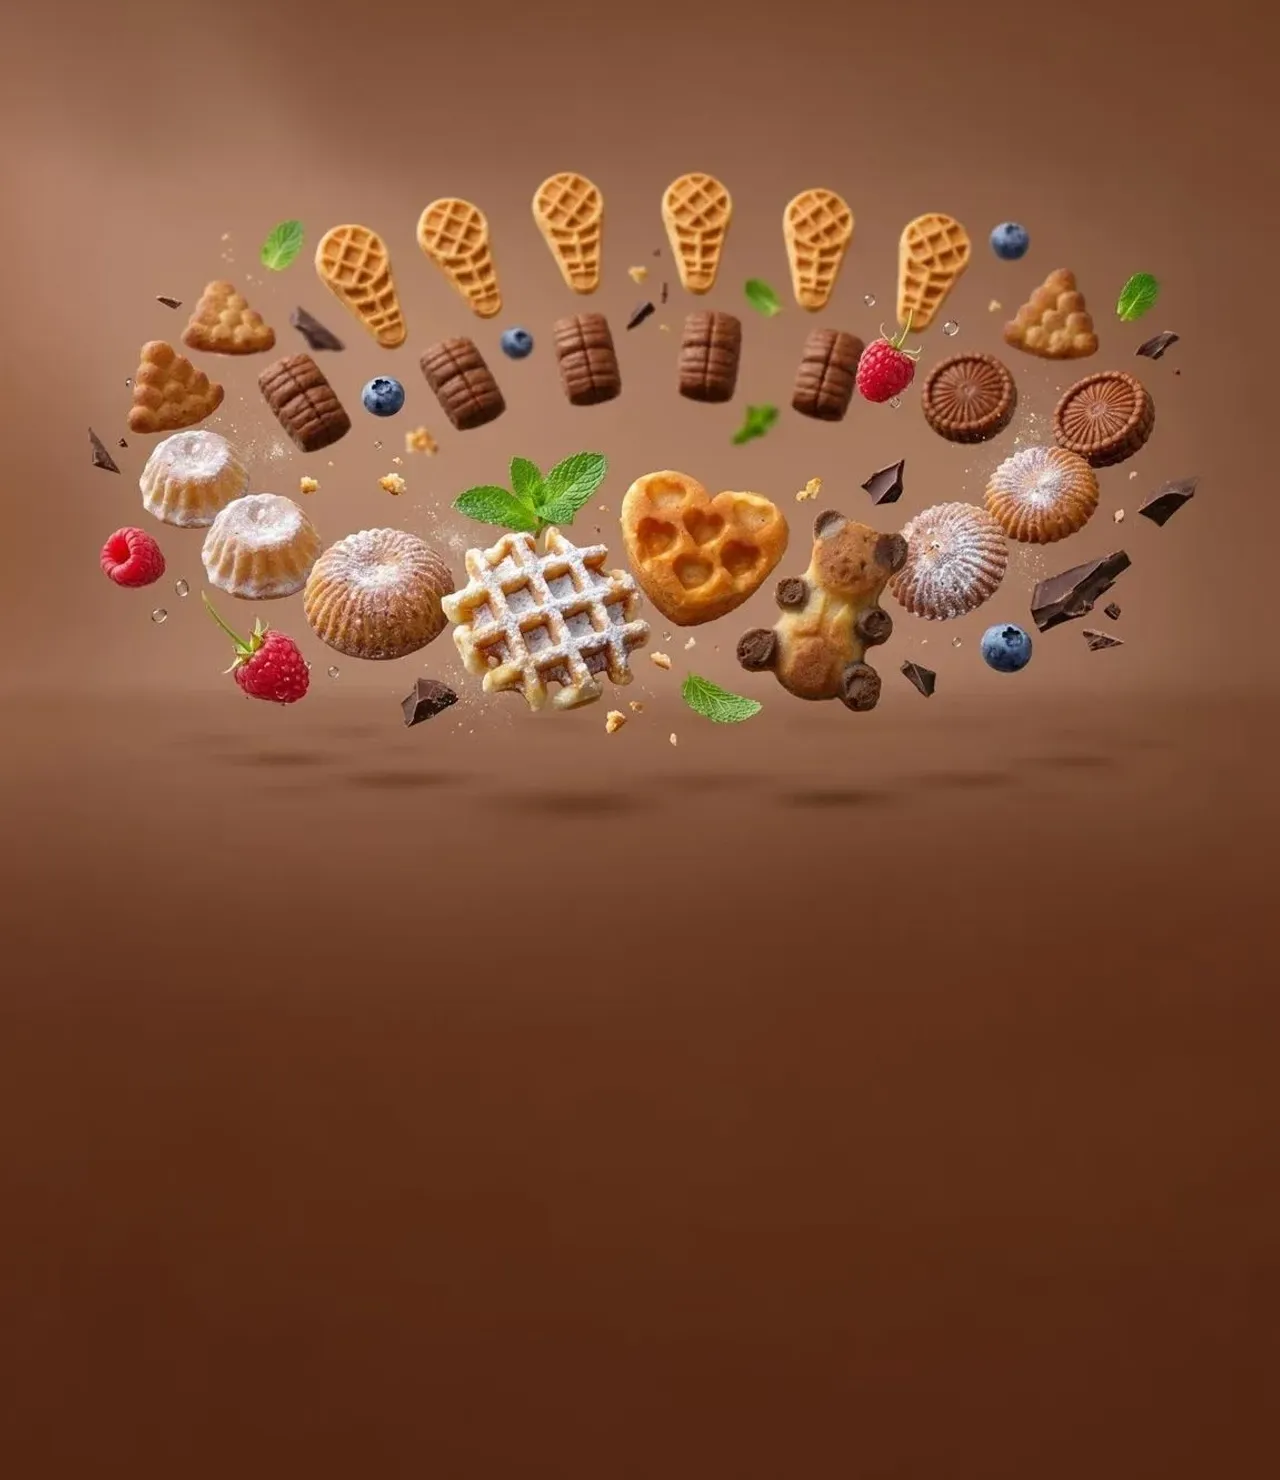
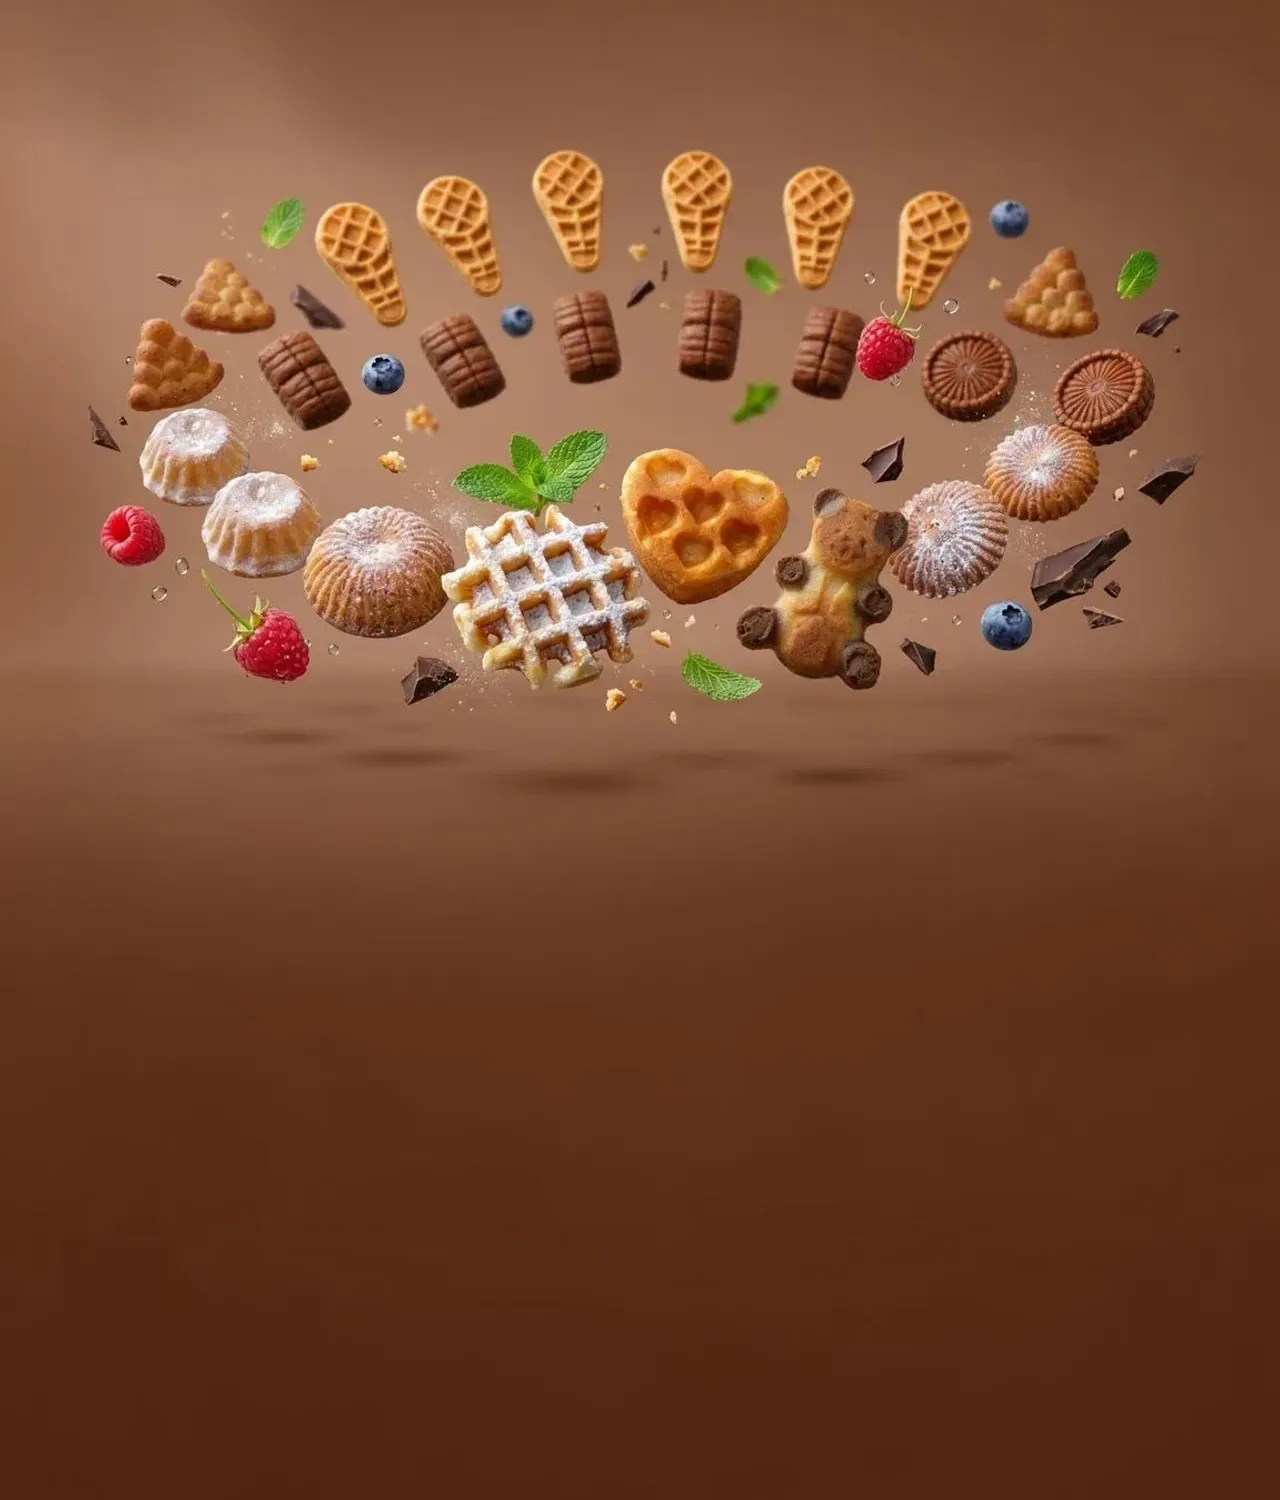
1

Changed region(s): [[0.0625, 0.0932, 0.9375, 0.5284]]

diff --git a/css/styles.css b/css/styles.css
@@ -298,7 +298,7 @@ h3,
 }
 
 .hero__title {
-    font-size: clamp(32px, 6vw, 50px);
+    font-size: clamp(28px, 6vw, 50px);
     font-weight: 700;
     line-height: 1.15;
     margin-bottom: 20px;